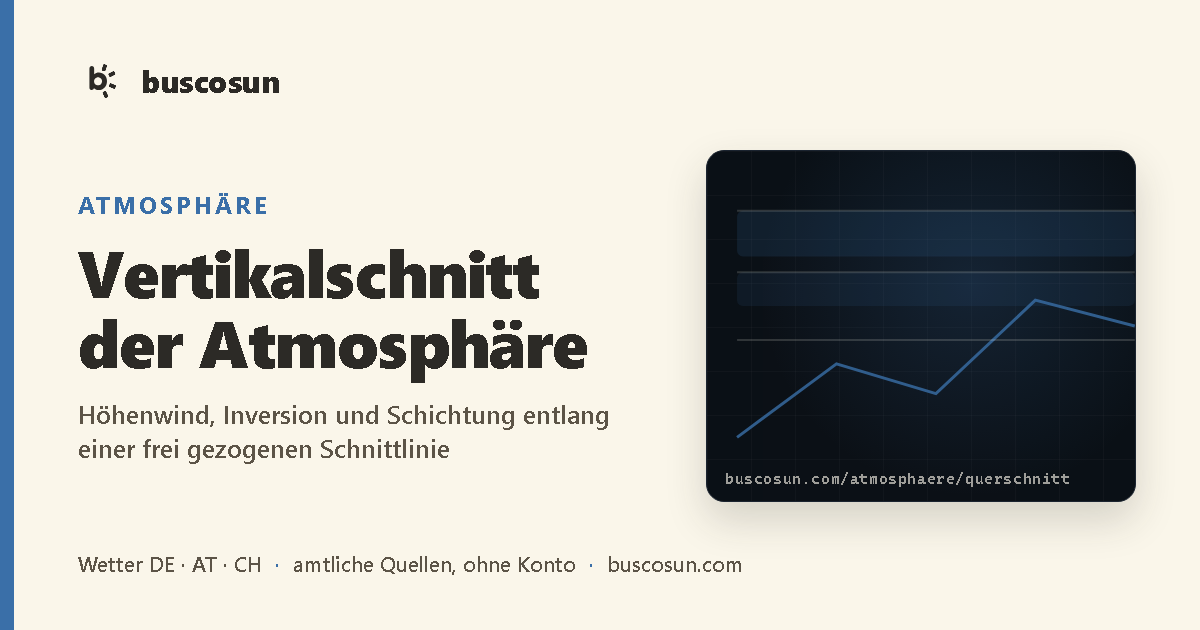
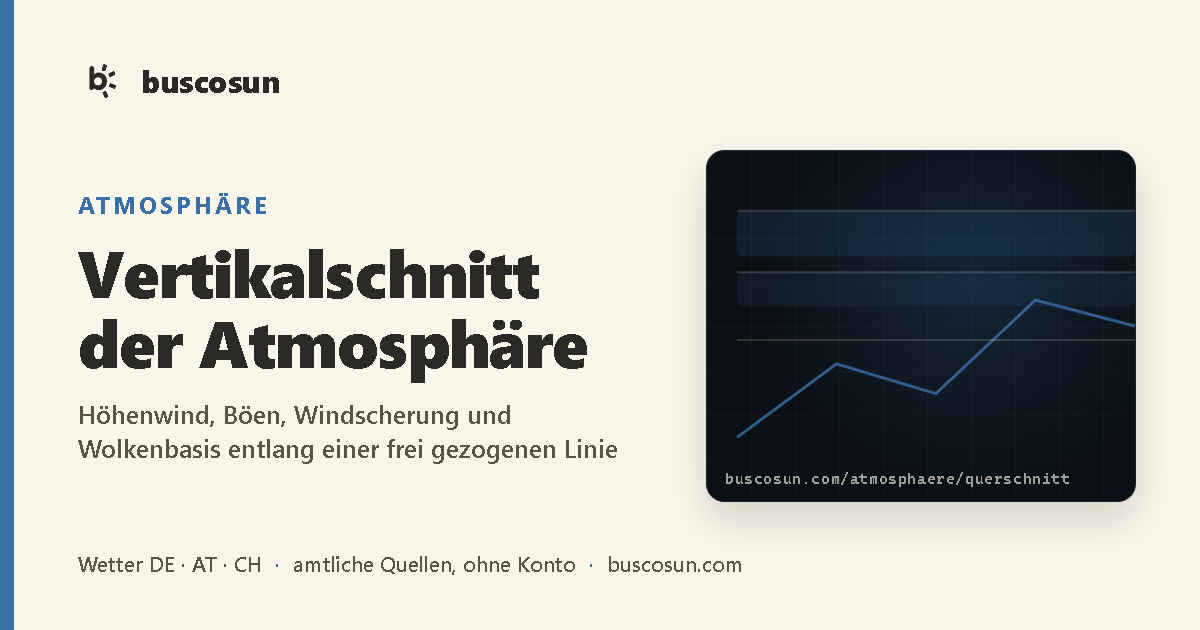
feat(seo): make /atmosphaere/querschnitt the Vertikalschnitt main page
Title, H1 and text use Vertikalschnitt, Querschnitt der Atmosphäre and
Höhenprofil, without Arbeitsfenster. Every claim was checked against the deck:
Inversion and Nullgradgrenze are gone (the section draws neither), the height
data are named as ICON-D2 model levels instead of ICON-EU, the horizon as about
36 h. Add sources, update cadence, coverage, limits and "kein amtliches
Produkt / kein amtliches Flugwetter" with a link to the DWD, also on
/funktionen/atmosphaere. verify-seo asserts these, re-render two app OG cards.

Changed region(s): [[0.0617, 0.6333, 0.5242, 0.7238]]

diff --git a/src/seo/subRouteTexts.ts b/src/seo/subRouteTexts.ts
@@ -19,21 +19,28 @@ const LAYER_ENTRIES: Record<string, SeoText> = Object.fromEntries(
 );
 
 const OTHER_ENTRIES: Readonly<Record<string, SeoText>> = {
+  // Belege: src/atmosphere/AtmosphereDeck.tsx (LAYER_ROWS, PointQuery, SectionChart ohne overlay), src/threed/SectionChart.tsx,
+  // src/threed/buildCrossSection.ts (COLUMNS, ANCHORS, FORECAST_HOURS 36, DEM_ZOOM 11, sectionMethod), crossSection.ts (150 m,
+  // topM, SHEAR_THRESHOLD, Böenüberschuss, Wolkenbasis ab 35 %), atmoContract.ts (ICON-D2, ATMO_RUN_EVERY_H, ATMO_GRID), radiosonde.ts.
+  // Eine 0-°C-Linie zeichnet der Schnitt nicht: darum steht die Nullgradgrenze hier nicht (verify-seo prüft das).
   '/atmosphaere/querschnitt': {
-    h1: 'Vertikalschnitt der Atmosphäre — Höhenwind, Inversion und Arbeitsfenster',
-    lead: 'Der Vertikalschnitt zeigt die Atmosphäre entlang einer frei auf die Karte gezogenen Linie als Querschnitt: das echte Geländeprofil aus dem Höhenmodell, darüber den Wind in fünf benannten Bändern von unter 15 bis über 60 km/h, Böenpfeile, Temperaturschichtung mit Inversionen, Wolkenbasis und Nullgradgrenze — aus ICON-D2 am Boden und ICON-EU in der Höhe, stündlich bis 48 Stunden voraus. Drei Ansichten teilen sich denselben Schnitt: Höhenwind, Inversion und das Arbeitsfenster Go/No-Go.',
+    h1: 'Vertikalschnitt der Atmosphäre: Höhenwind und Böen im Querschnitt über dem Gelände',
+    lead: 'Der Vertikalschnitt zeigt den Querschnitt der Atmosphäre entlang einer frei auf die Karte gezogenen Linie: unten das Höhenprofil des Geländes aus dem Höhenmodell, darüber den Wind in fünf benannten Bändern von unter 15 bis über 60 km/h mit Pfeilen für die Richtung. Zuschaltbar sind Böen, Windscherung, Strömungslinien und die Wolkenbasis. Ein Klick in den Schnitt nennt Höhe, Mittelwind, Böe, Richtung und Temperatur an diesem Punkt, ein Zeit-Regler führt rund 36 Stunden voraus.',
     body: [
-      'Die Ansicht „Arbeitsfenster" ist für Drohne, Kran, Gerüst und Höhenarbeit gebaut: Arbeitshöhe in Metern über Grund und ein Böengrenzwert ergeben eine GO/NO-GO-Zeitleiste über den Tag („GO ab 14:30", „NO-GO ganzer Tag"), mit einem Höhenfaktor, der die Böe in Arbeitshöhe aus der 10-m-Böe ableitet. Eigene Zusatzgrenzwerte werden im Browser gespeichert. Referenzanker des Schnitts ist das höchste Gelände der Linie.',
-      'Grenzen: Der Wind über Grund folgt einem Potenzprofil mit Sättigung in 1 500 m, keiner Messung; Strukturen unter 200 m sind aus ICON-EU nicht sicher aufgelöst; die Wolkenbasis ist eine LCL-Näherung und trägt das Wort „abgeleitet". Die Zeitleiste ist eine Planungshilfe, kein zertifiziertes Arbeitsschutz-Werkzeug — maßgeblich sind Herstellergrenzwerte und die amtlichen Warnungen.',
+      'Gerechnet wird mit 64 Spalten entlang der Linie und Höhenstufen von 150 Metern. Wind und Temperatur je Höhe kommen aus einem Höhen-Cube mit den Modellflächen von ICON-D2 des Deutschen Wetterdienstes, neu berechnet für die Läufe 00, 06, 12 und 18 UTC; am Boden ist der Schnitt an fünf Punkten der Linie auf buscosun Fusion verankert. Liegt ein Radiosondenaufstieg höchstens 40 Kilometer neben der Linie und ist höchstens 30 Stunden alt, steht sein gemessener Wind als eigene, beschriftete Säule daneben und wird nie mit dem Modell verrechnet. Die Bildunterschrift nennt Lauf und Rechenweg des aktuellen Schnitts.',
+      'Grenzen: Das Wetter am Boden stammt von fünf Punkten der Linie, dazwischen wird interpoliert, und das Modellgitter von rund 2,2 Kilometern glättet enge Täler und Grate. Der Schnitt reicht bis mindestens 3 000 Meter und bei hohem Gelände gut 1 500 Meter über den höchsten Punkt. Die Böen sind der Böenüberschuss vom Boden, der mit der Höhe ausläuft, keine Messung in der Höhe. Die Wolkenbasis ist eine Näherung aus Temperatur und Feuchte am Boden und erscheint nur bei nennenswerter Bewölkung. Fehlt der Höhen-Cube, schätzt der Schnitt den Wind aus dem Bodenwert und schreibt das dazu. Grenzwerte für Drohne oder Kran prüft die Ansicht nicht.',
+      'Der Vertikalschnitt ist kein amtliches Produkt und kein amtliches Flugwetter, und er gibt keine Warnungen heraus. Für Flugentscheidungen gelten die Flugwetterberatung der Wetterdienste, die Regeln des Fluggebiets und die eigene Beobachtung; amtliche Warnungen zeigt buscosun nur als wörtliches Zitat auf der Seite Warnungen.',
     ],
+    official: { text: 'Zuständig für Flugwetter in Deutschland:', label: 'Deutscher Wetterdienst, Luftfahrt und Flugwetterberatung', href: 'https://www.dwd.de/DE/fachnutzer/luftfahrt/luftfahrt_node.html' },
     facts: [
-      { label: 'Quellen', text: 'DWD ICON-D2 (Boden) · ICON-EU-Druckflächen · Terrarium-DEM (~76 m/px)' },
-      { label: 'Auflösung', text: '64 Spalten je Schnitt, 5 Ankerpunkte, 36–48 h' },
+      { label: 'Quellen', text: 'DWD ICON-D2 (Modellflächen, rund 2,2 km) · buscosun Fusion (Boden) · Radiosonden neben der Linie, sofern vorhanden · Terrarium-DEM (rund 76 m/px)' },
+      { label: 'Aktualisierung', text: 'Höhen-Cube alle 6 Stunden (Läufe 00/06/12/18 UTC); Bodenwerte beim Öffnen aus dem neuesten Stand von buscosun Fusion; Zeit-Regler in 15-Minuten-Schritten zwischen Stundenwerten' },
+      { label: 'Auflösung', text: '64 Spalten je Schnitt, Wetter am Boden an 5 Punkten der Linie, Höhenstufen 150 m, rund 36 h voraus' },
       { label: 'Windbänder', text: '< 15 · 15–30 · 30–45 · 45–60 · > 60 km/h; Scherung ab 25 km/h je 300 m' },
-      { label: 'Abdeckung', text: 'DE, AT, CH' },
-      { label: 'Grenze', text: 'Windprofil aus 10-m-Wert + Standardprofil; keine Sichtweite; kein zertifiziertes Arbeitsschutz-Tool' },
+      { label: 'Abdeckung', text: 'DE, AT, CH (45,5–55,5° N, 5,5–17,5° O); Start über Ort, gezeichnete Linie oder GPX, TCX, FIT, KML' },
+      { label: 'Grenze', text: 'Modellwerte, keine Messung; Böen vom Boden abgeleitet; keine Sichtweite; kein amtliches Produkt, kein amtliches Flugwetter' },
     ],
-    explainer: 'temperaturinversion',
+    explainer: 'windboeen-sturm',
   },
   '/waldbrand/gefahrenindex': {
     h1: 'Waldbrandgefahr für Deutschland, Österreich und die Schweiz — der Gefahrenindex',

diff --git a/src/router/routes.ts b/src/router/routes.ts
@@ -215,7 +215,7 @@ export const ROUTES: readonly RouteDef[] = [
     id: 'atmosphaere', path: '/atmosphaere', aliases: ['/atmosph%C3%A4re', '/atmosphere'], featureId: 'atmosphere', subParam: 'lens', place: true,
     subs: [
       {
-        slug: ATMOSPHERE_LENS_SLUGS.section, title: 'Vertikalschnitt der Atmosphäre', description: 'Höhenwind, Inversion und Schichtung entlang einer frei gezogenen Schnittlinie — die Atmosphäre im Querschnitt.',
+        slug: ATMOSPHERE_LENS_SLUGS.section, title: 'Vertikalschnitt der Atmosphäre — Höhenwind im Querschnitt', description: 'Höhenwind, Böen, Windscherung und Wolkenbasis entlang einer frei gezogenen Linie: der Querschnitt der Atmosphäre über dem Gelände in DE, AT und CH.', updated: '2026-11-01',
       },
     ],
     meta: {

diff --git a/netlify/edge-shared/shareParser.js b/netlify/edge-shared/shareParser.js
@@ -449,8 +449,9 @@ var ROUTES = [
     subs: [
       {
         slug: ATMOSPHERE_LENS_SLUGS.section,
-        title: "Vertikalschnitt der Atmosphäre",
-        description: "Höhenwind, Inversion und Schichtung entlang einer frei gezogenen Schnittlinie — die Atmosphäre im Querschnitt."
+        title: "Vertikalschnitt der Atmosphäre — Höhenwind im Querschnitt",
+        description: "Höhenwind, Böen, Windscherung und Wolkenbasis entlang einer frei gezogenen Linie: der Querschnitt der Atmosphäre über dem Gelände in DE, AT und CH.",
+        updated: "2026-11-01"
       }
     ],
     meta: {

diff --git a/src/router/RouteSeoBlock.tsx b/src/router/RouteSeoBlock.tsx
@@ -63,6 +63,7 @@ export default function RouteSeoBlock() {
         <Heading className="rsb-h1">{h1}</Heading>
         <p className="rsb-lead">{lead}</p>
         {t?.body.map((p, i) => <p key={i}>{p}</p>)}
+        {t?.official && <p>{t.official.text} <a href={t.official.href} rel="noopener">{t.official.label}</a>.</p>}
         {t?.facts && t.facts.length > 0 && (
           <>
             <h2 className="rsb-h2">Daten und Grenzen</h2>

diff --git a/src/seo/layerSeoTexts.ts b/src/seo/layerSeoTexts.ts
@@ -30,6 +30,8 @@ export interface SeoText {
   body: readonly string[];
   /** Faktenliste: Quelle · Auflösung/Takt · Horizont · Abdeckung · Grenze. */
   facts: readonly LayerFact[];
+  /** Optional: die zuständige amtliche Stelle, als echter Link neben dem Text. */
+  official?: { text: string; label: string; href: string };
   /** Passender Explainer unter /wissen/<slug>/ (null = keiner). */
   explainer: string | null;
 }
